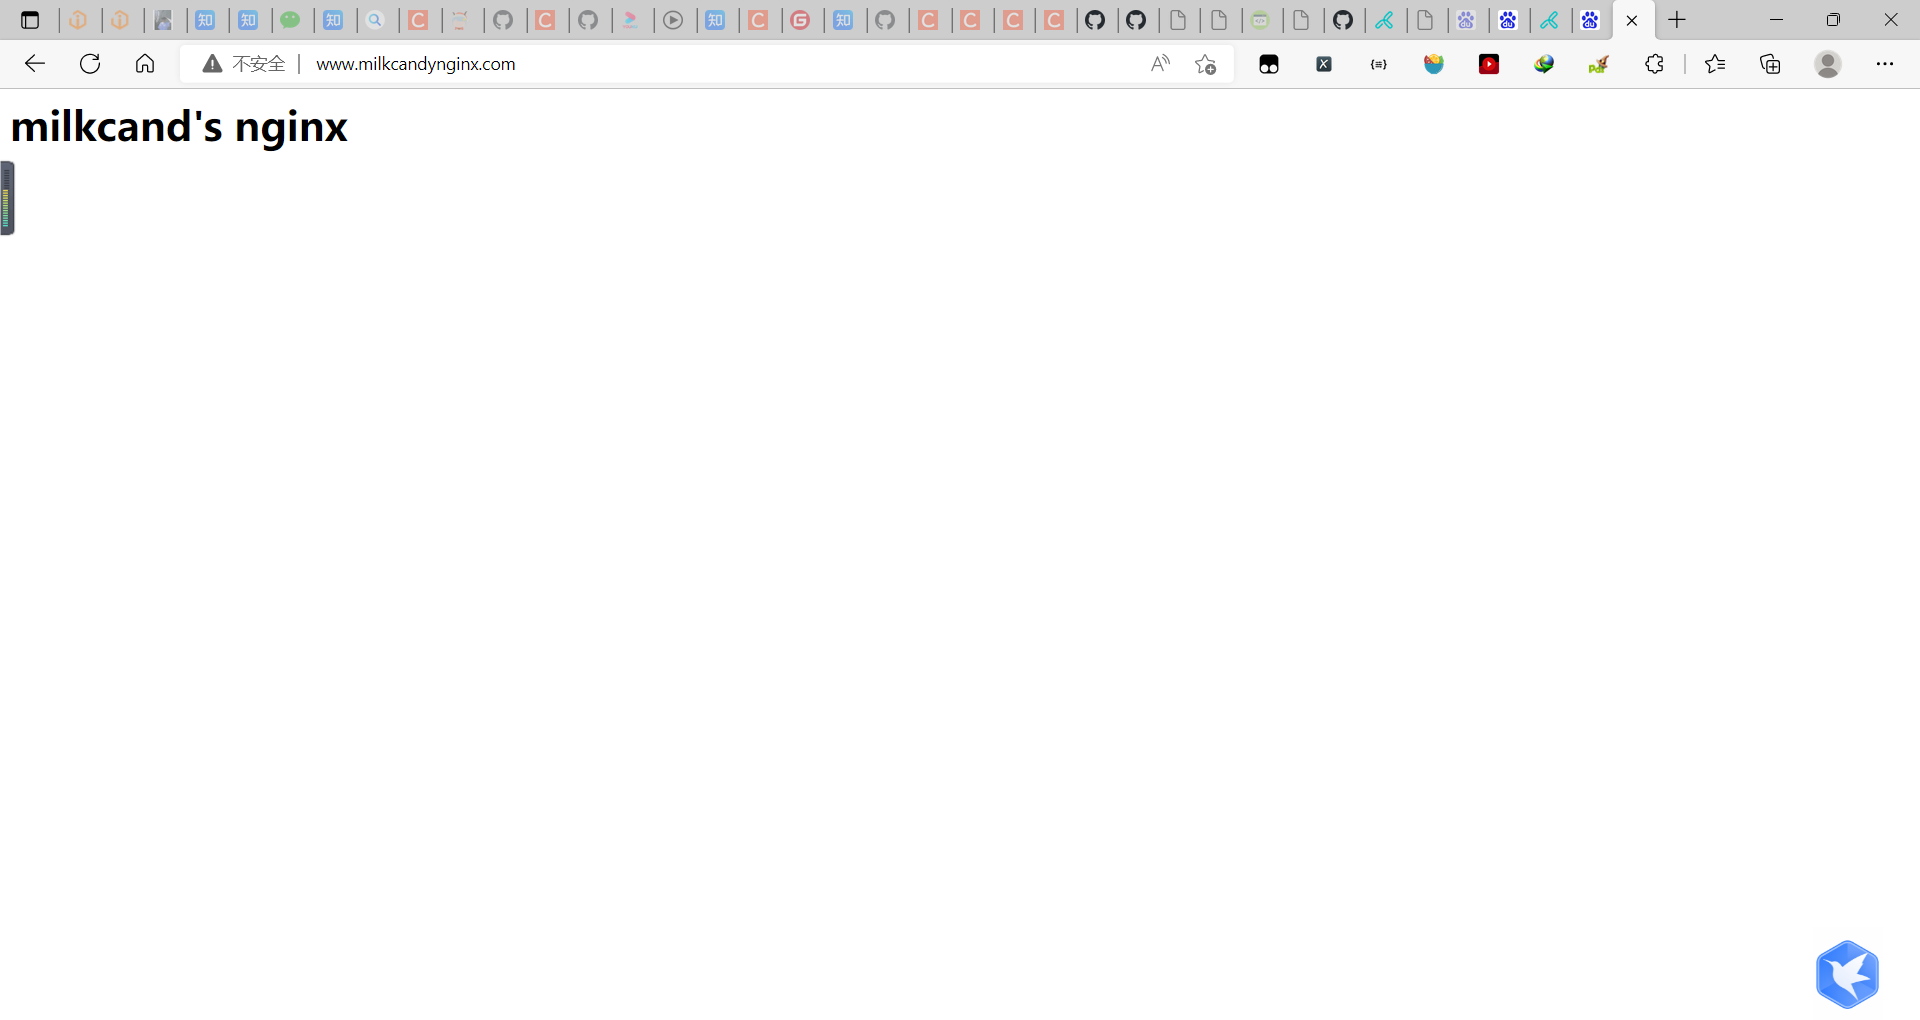
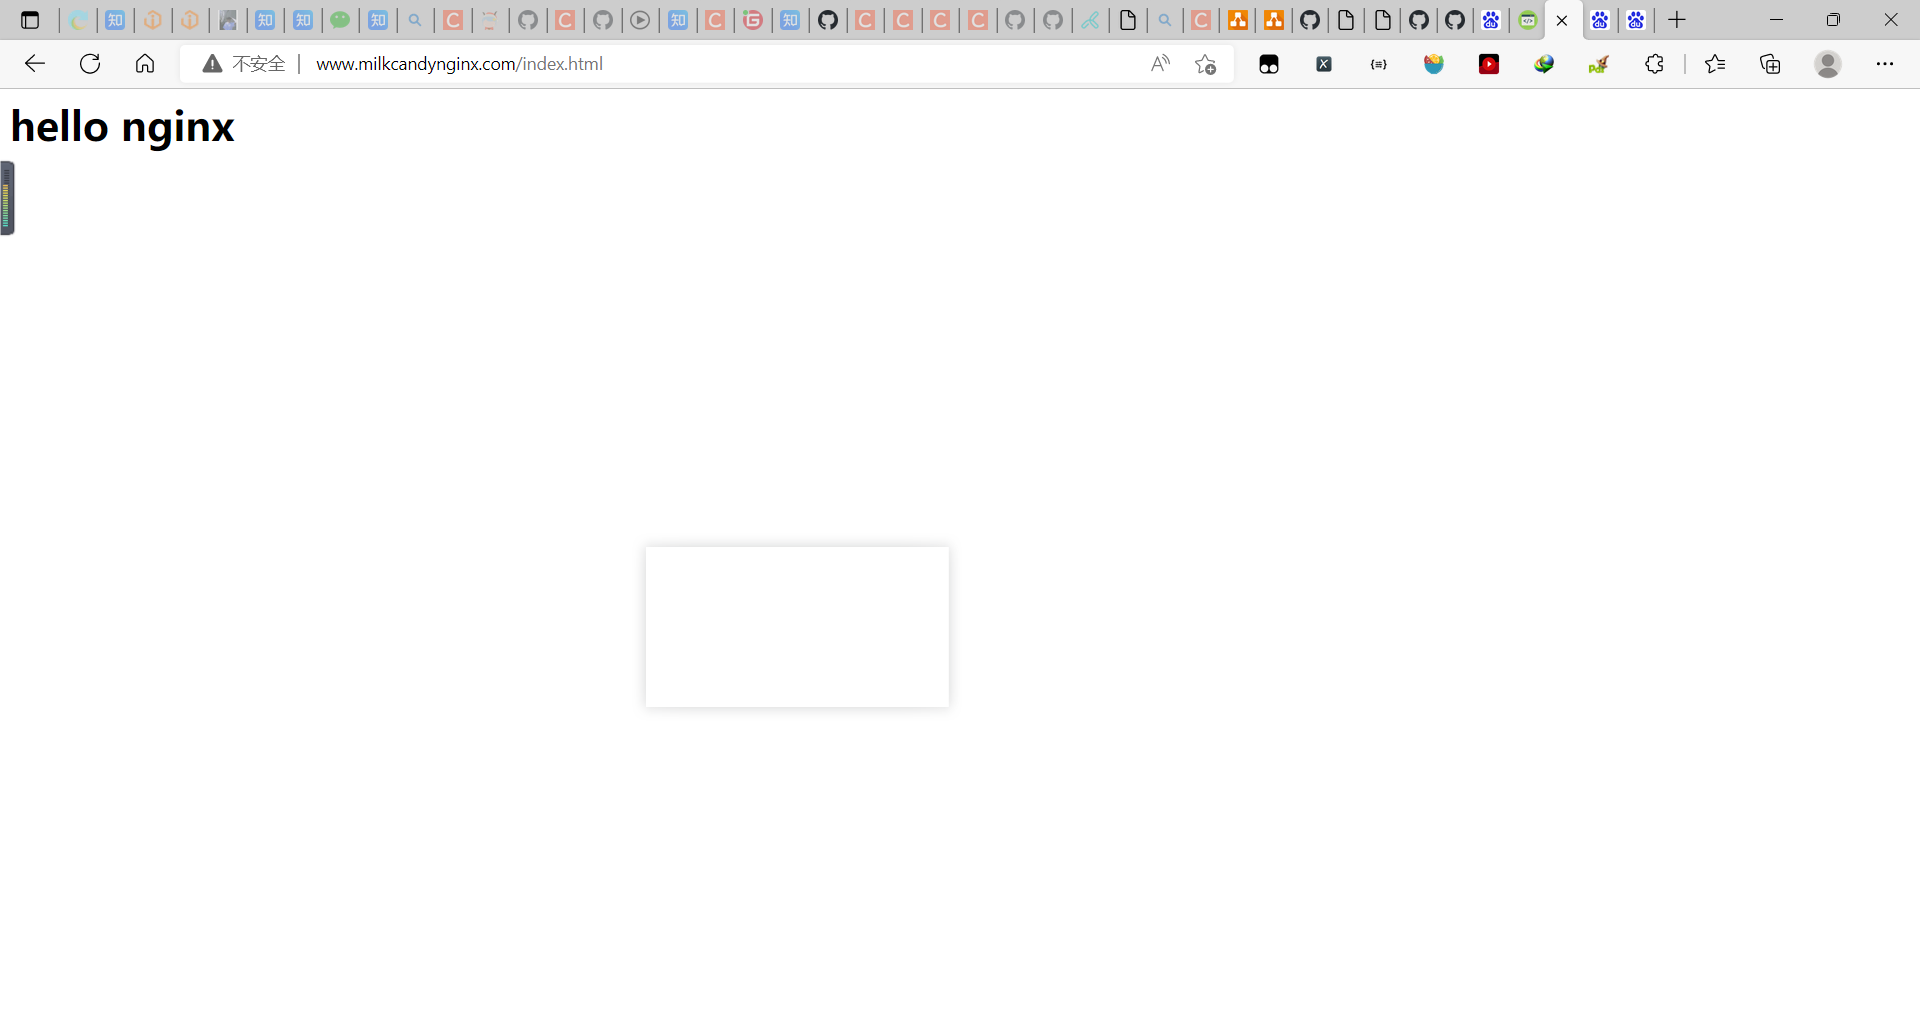
secondtime

diff --git a/readme.md b/readme.md
@@ -88,14 +88,15 @@ sudo vi nginx.conf
 ![](imgs\verynginx_reset_port.png)
 修改配置文件里的用户名：
 ![](imgs\改用户名.png)
+更改用户名以后会导致无法登陆，换一个方式，增加一个默认的 `nginx` 用户：
+![](imgs\添加nginx用户.png)
 启动 `verynginx` :
 ```bash
 sudo /opt/verynginx/openresty/nginx/sbin/nginx
 ```
-访问 `192.168.56.101:8100` :
+访问 `192.168.56.101:8100/verynginx/index.html` :
 ![](imgs\访问veryinginx.png)
-更改用户名以后会导致无法登陆，换一个方式，增加一个默认的 `nginx` 用户：
-![](imgs\添加nginx用户.png)
+
 使用官方文档里的默认用户名和密码登录：`verynginx` / `verynginx` 。
 ![](imgs\登录verynginx.png)
 
@@ -103,7 +104,7 @@ sudo /opt/verynginx/openresty/nginx/sbin/nginx
 在 `C:\Windows\System32\drivers\etc` 中找到 `host` 文件添加
 ```bash
 # 测试网址
-192.168.56.101 www.milkcandymynginx.com www.milkcandynginx.com
+192.168.56.101 www.milkcandynginx.com www.milkcandyverynginx.com
 
 # 目标搭建网址
 192.168.56.101 wp.sec.cuc.edu.cn dvwa.sec.cuc.edu.cn
@@ -111,18 +112,18 @@ sudo /opt/verynginx/openresty/nginx/sbin/nginx
 
 ### 3.配置及搭建
 #### 配置 `nginx`
-创建服务器根目录 `milkcandynginx` :
+创建服务器根目录 `milkcandynginx/php` :
 ```bash
-mkdir milkcandynginx
+mkdir milkcandynginx/php
 ```
 创建 `index.html` 页面
 ```bash
-cd milkcandynginx
+cd milkcandynginx/php
 vi index.html
 # 以下内容在 index 中
 <html>
 <body>
-    <h1>this is my fiest nginx</h1>
+    <h1>hello nginx</h1>
 </body>
 #
 ```
@@ -132,17 +133,11 @@ sudo vi milkcandy.conf
 ```
 配置 `milkcandy.conf` :
 
-![](imgs\root&service_nginx.png)
-```bash
-cd /etc/nginx/sites-enabled
-sudo vi default
 
-root /home/cuc/milkcandynginx
-server_name www.milkcandynginx.com
-```
 ![](imgs\配置nginx_html.png)
-在互联网上访问： `www.milkcandynginx.com` :
+在互联网上访问： `www.milkcandynginx.com/index.html` :
 ![](imgs\nginx_html.png)
+
 配置 `php-fpm` 反向代理服务器：
 下载 `php-fpm`：
 ```bash
@@ -156,11 +151,11 @@ sudo apt install php-fpm
 phpinfo();
 ?>
 ```
-在 `/etc/nginx/conf.d` 中创建 `milkcandynginx.conf`:
-![](imgs\配置php_1.png)
-![](imgs\配置php_2.png)
+在 `/etc/nginx/conf.d/milkcandynginx.conf` 进行配置，配置和之前的一致:
+![](imgs\配置nginx_html.png)
 
-重启 `php-fpm` 和 `nginx`,连接 `www.milkcandyverynginx.com`:
+
+重启 `php-fpm` 和 `nginx`：
 ```bash
 whereis php-fpm #查看php-fpm的具体位置以及版本
 ps -ef | grep php #查看php进程是否在工作
@@ -170,6 +165,9 @@ sudo service php7.4-fpm restart #我的php-fpm版本是7.4
 sudo systemctl restart nginx #重启nginx
 
 ```
+根据配置连接 `www.milkcandyverynginx.com/index.php` or `milkcandnginx.com/index.php`都可以访问界面:
+![](imgs\php_1.png)
+![](imgs\php_2.png)
 
 ### 在 `nginx` 上搭建 `Wordpress 4.7 `:
 用 `scp` 将 `wordpress4.7-zip` 传输至虚拟机并且解压缩
@@ -212,8 +210,22 @@ server{
 sudo nginx -t
 sudo nginx -s reload
 ```
-按照 `readme.html` 中的步骤进行安装，对数据库进行配置
+
+#### 安装php及相关组件
 ```bash
+sudo apt install php-fpm php-mysql php-curl php-gd php-intl php-mbstring php-soap php-xml php-xmlrpc php-zip
+```
+
+#### 下载mysql
+```bash
+sudo apt-get update && sudo apt-get dist-upgrade
+sudo apt-get install mysql-server
+```
+
+按照 `readme.html` 中的步骤进行安装，对数据库进行配置
+```sql
+sudo mysql
+
 create database wordpress;
 
 create user wordpress@localhost identified by 'wordpress';
@@ -221,7 +233,73 @@ create user wordpress@localhost identified by 'wordpress';
 grant all on wordpress.* to wordpress@localhost;
 
 flush privileges;
+
+exit
 ```
+访问 `wp.sec.cuc.edu.cn/wordpress/index.php` :
+![](imgs\wordpress_php.png)
+登录：
+![](imgs\wordpress登录.png)
+
+### 在 `nginx` 上搭建 `DVWA`
+```bash
+# 虚拟机
+mkdir milkcandynginx/dvwa/
+cd milkcandynginx/dvwa/
+
+# 宿主机下载好 DVWA-master.zip
+scp DVWA-master.zip cuc@192.168.56.101:~/milkcandynginx/dvwa
+
+# 虚拟机
+unzip DVWA-master.zip
+```
+
+配置 `DVWA`:
+```bash
+cd /etc/nginx/conf.d/
+sudo vi dvwa.conf
+
+# in file
+server{
+        listen 192.168.56.101:8100;
+        server_name dvwa.sec.cuc.edu.cn;
+
+        root /home/cuc/milkcandynginx/dvwa/DVWA-master;
+
+        location / {
+                index index.html;
+        }
+
+        location ~ \.php$ {
+                root /home/cuc/milkcandynginx/dvwa/DVWA-master;
+                include /etc/nginx/fastcgi.conf;
+                fastcgi_intercept_errors on;
+                fastcgi_index index.php;
+                fastcgi_param SCRIPT_FILENAME $document_root$fastcgi_script_name;
+                include fastcgi_params;
+                fastcgi_pass 127.0.0.1:9000;
+        }
+}
+
+# 重新载入配置
+sudo nginx -t
+sudo nginx -s reload
+```
+按照 `readme.md` 文件进行安装：
+```sql
+sudo mysql
+
+create database dvwa;
+
+
+create user dvwa@localhost identified by 'p@ssw0rd';
+
+ grant all on dvwa.* to dvwa@localhost;
+flush privileges;
+```
+
+
+
 
 
 
